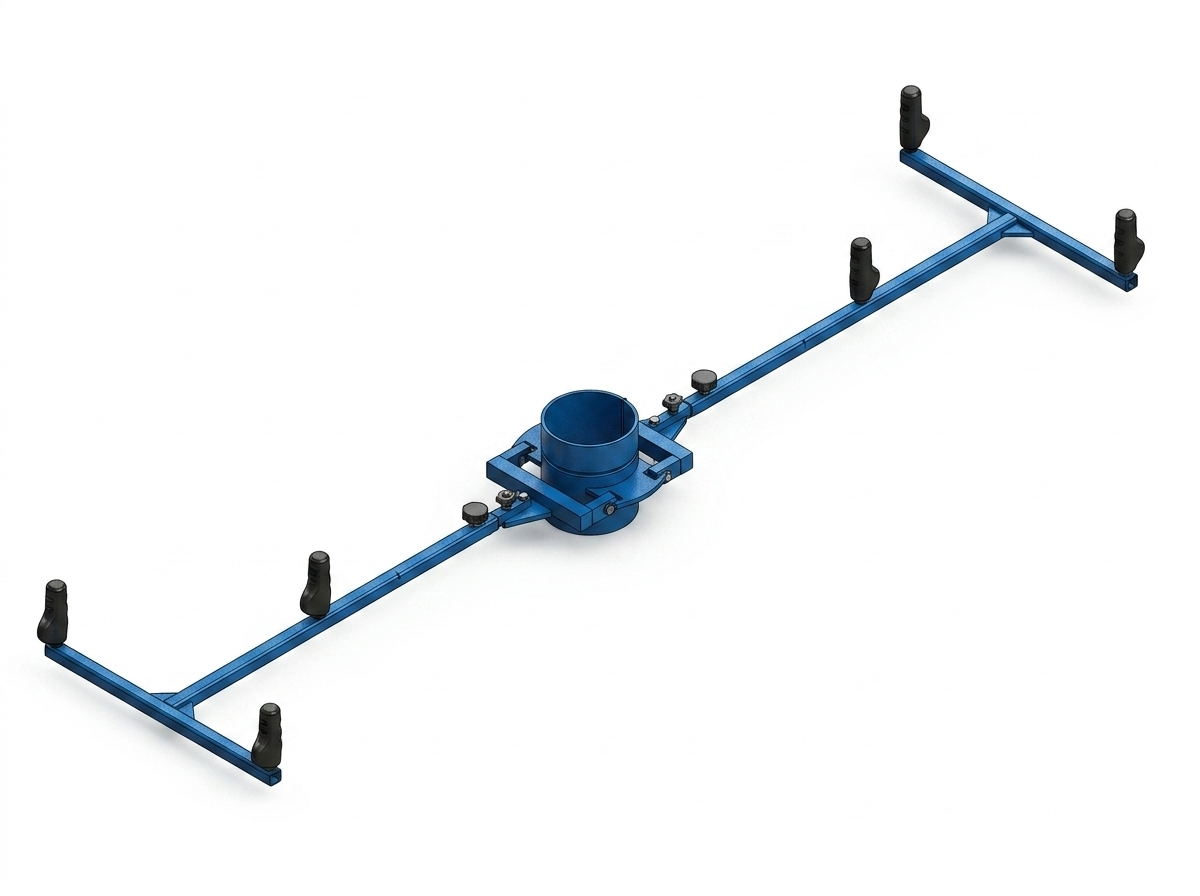
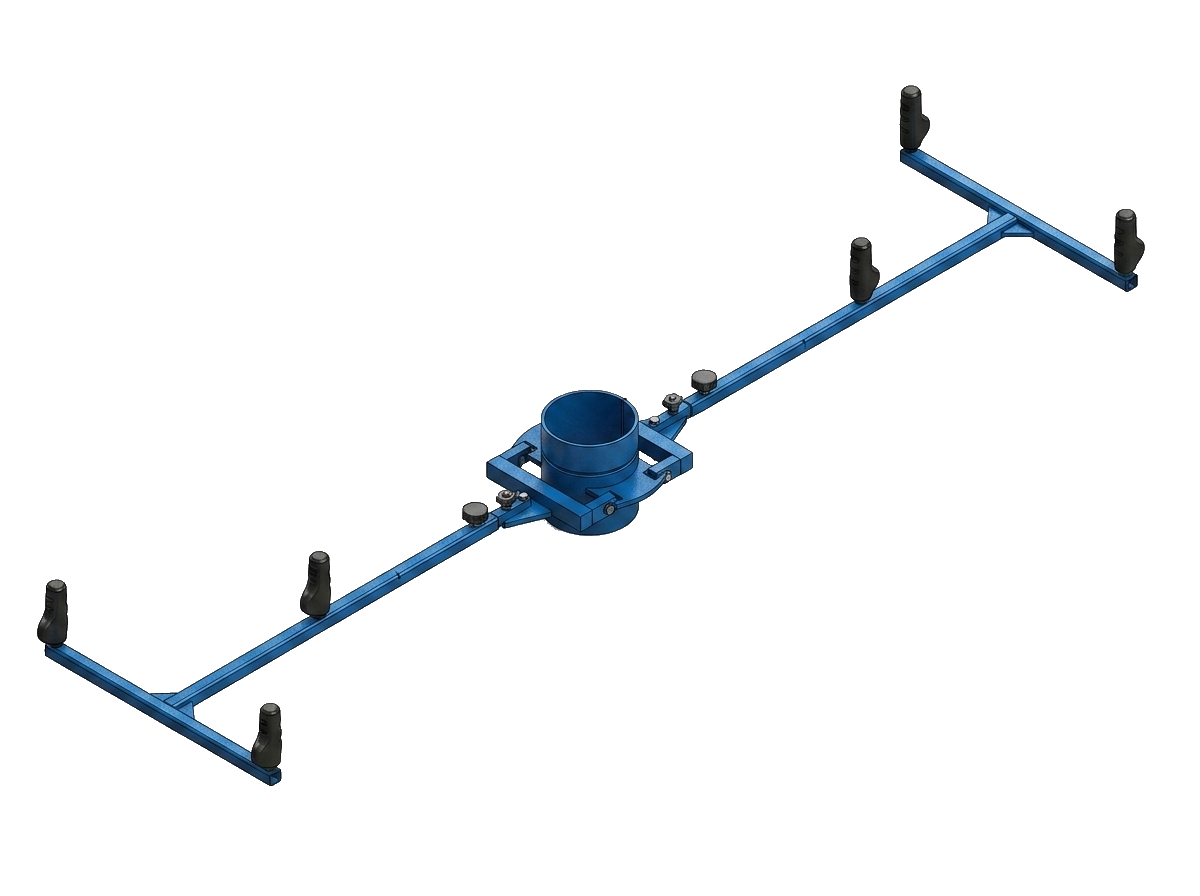
feat: rediseño renders accesorios — PNGs transparentes, layout ficha industrial
- PNGs RGBA sin fondo blanco
- Sin mix-blend-mode
- Números 01/02 Barlow Condensed naranja
- height: 280px contenido, maxWidth: 480px por card
- viewBox 1200x896 exacto para SVG barra
- Línea separadora naranja bajo cada render

diff --git a/src/app/construccion/capachos-concreteros-roll-over/page.tsx b/src/app/construccion/capachos-concreteros-roll-over/page.tsx
@@ -478,74 +478,97 @@ export default function CapachoRollOverPage() {
 
         {/* 5b. RENDERS ACCESORIOS — full width */}
         <section className="py-16" style={{ background: "#06101e" }}>
-          <div className="max-w-[1400px] mx-auto px-6 md:px-10 lg:px-16">
-            <div className="grid grid-cols-1 md:grid-cols-2 gap-16 items-start">
+          <div className="max-w-[1100px] mx-auto px-6 md:px-10 lg:px-16">
+            <div className="grid grid-cols-1 md:grid-cols-2 gap-20 items-start">
 
-              {/* — Asas de manipulación Manga — */}
-              <div className="flex flex-col items-center gap-5">
-                <div className="relative w-full" style={{ aspectRatio: "4/3" }}>
+              {/* — 01 Asas de manipulación Manga — */}
+              <div className="flex flex-col items-center gap-4 mx-auto w-full" style={{ maxWidth: "480px" }}>
+                {/* Número */}
+                <div className="w-full">
+                  <span style={{ color: "#e07820", fontWeight: 900, fontSize: "clamp(2rem, 3vw, 2.8rem)", lineHeight: 1, fontFamily: "var(--font-barlow-condensed)", fontStyle: "italic" }}>01</span>
+                </div>
+                {/* Render */}
+                <div className="relative w-full" style={{ height: "280px" }}>
                   <Image
                     src="/images/productos/capacho-roll-ver/accesorio-asas-manga.png"
                     alt="Asas de manipulación Manga"
                     fill
                     className="object-contain"
-                    style={{ mixBlendMode: "screen" }}
                     sizes="(max-width: 768px) 90vw, 45vw"
                   />
                 </div>
-                <div className="text-center">
-                  <p style={{ color: "#e07820", fontWeight: 700, fontSize: "clamp(0.9rem, 1.3vw, 1.05rem)", letterSpacing: "0.05em", marginBottom: "0.5rem" }}>
+                {/* Texto */}
+                <div className="w-full pt-2" style={{ borderTop: "1px solid rgba(224,120,32,0.3)" }}>
+                  <p style={{ color: "#e07820", fontWeight: 700, fontSize: "1rem", letterSpacing: "0.04em", marginBottom: "0.4rem" }}>
                     Asas de manipulación Manga
                   </p>
-                  <p style={{ color: "rgba(255,255,255,0.55)", fontSize: "clamp(0.78rem, 1vw, 0.9rem)", lineHeight: 1.6 }}>
+                  <p style={{ color: "rgba(255,255,255,0.55)", fontSize: "0.85rem", lineHeight: 1.65 }}>
                     Largos ajustables. Permiten la manipulación por 1 ó 2 trabajadores en simultáneo, alejados de la carga suspendida.
                   </p>
                 </div>
               </div>
 
-              {/* — Barra de apertura con SVG overlay — */}
-              <div className="flex flex-col items-center gap-5">
-                <div className="relative w-full" style={{ aspectRatio: "4/3" }}>
+              {/* — 02 Barra de apertura con SVG overlay — */}
+              <div className="flex flex-col items-center gap-4 mx-auto w-full" style={{ maxWidth: "480px" }}>
+                {/* Número */}
+                <div className="w-full">
+                  <span style={{ color: "#e07820", fontWeight: 900, fontSize: "clamp(2rem, 3vw, 2.8rem)", lineHeight: 1, fontFamily: "var(--font-barlow-condensed)", fontStyle: "italic" }}>02</span>
+                </div>
+                {/* Render + SVG */}
+                <div className="relative w-full" style={{ height: "280px" }}>
                   <Image
                     src="/images/productos/capacho-roll-ver/accesorio-barra-compuerta.png"
                     alt="Barra de apertura de compuerta extendida"
                     fill
                     className="object-contain"
-                    style={{ mixBlendMode: "screen" }}
                     sizes="(max-width: 768px) 90vw, 45vw"
                   />
-                  {/* SVG — traza la geometría de la barra */}
+                  {/* SVG — traza geometría de la barra. viewBox = dimensiones reales 1200x896 */}
                   <svg
                     className="absolute inset-0 w-full h-full pointer-events-none"
-                    viewBox="0 0 400 300"
+                    viewBox="0 0 1200 896"
+                    preserveAspectRatio="xMidYMid meet"
                     style={{ animation: "svg-glow 1.8s ease-in-out infinite" }}
                   >
                     <defs>
                       <filter id="orange-glow">
-                        <feGaussianBlur stdDeviation="2" result="blur" />
+                        <feGaussianBlur stdDeviation="3" result="blur" />
                         <feMerge>
                           <feMergeNode in="blur" />
                           <feMergeNode in="SourceGraphic" />
                         </feMerge>
                       </filter>
                     </defs>
-                    {/* Trayecto de la barra — pivote → codo → punta */}
+                    {/* Pivote → codo → punta */}
                     <polyline
-                      points="295,202 315,168 332,150 342,134"
+                      points="885,605 945,504 996,450 1026,402"
                       fill="none"
                       stroke="#e07820"
-                      strokeWidth="2.5"
+                      strokeWidth="7"
                       strokeLinecap="round"
                       strokeLinejoin="round"
                       filter="url(#orange-glow)"
                     />
-                    {/* Círculo en el pivote */}
-                    <circle cx="295" cy="202" r="5" fill="none" stroke="#e07820" strokeWidth="2" filter="url(#orange-glow)" />
-                    {/* Círculo en la bolita — punta */}
-                    <circle cx="342" cy="134" r="6" fill="none" stroke="#e07820" strokeWidth="2.5" filter="url(#orange-glow)" />
+                    <circle cx="885" cy="605" r="15" fill="none" stroke="#e07820" strokeWidth="6" filter="url(#orange-glow)" />
+                    <circle cx="1026" cy="402" r="18" fill="none" stroke="#e07820" strokeWidth="7" filter="url(#orange-glow)" />
                   </svg>
                 </div>
-                <div className="text-center">
+                {/* Texto */}
+                <div className="w-full pt-2" style={{ borderTop: "1px solid rgba(224,120,32,0.3)" }}>
+                  <p style={{ color: "#e07820", fontWeight: 700, fontSize: "1rem", letterSpacing: "0.04em", marginBottom: "0.4rem" }}>
+                    Barra de apertura de compuerta extendida
+                  </p>
+                  <p style={{ color: "rgba(255,255,255,0.55)", fontSize: "0.85rem", lineHeight: 1.65 }}>
+                    Opera la compuerta de descarga desde una posición segura, alejado de la carga suspendida.
+                  </p>
+                </div>
+              </div>
+
+            </div>
+          </div>
+        </section>
+
+        {/* 6. GALERÍA */}
                   <p style={{ color: "#e07820", fontWeight: 700, fontSize: "clamp(0.9rem, 1.3vw, 1.05rem)", letterSpacing: "0.05em", marginBottom: "0.5rem" }}>
                     Barra de apertura de compuerta extendida
                   </p>
